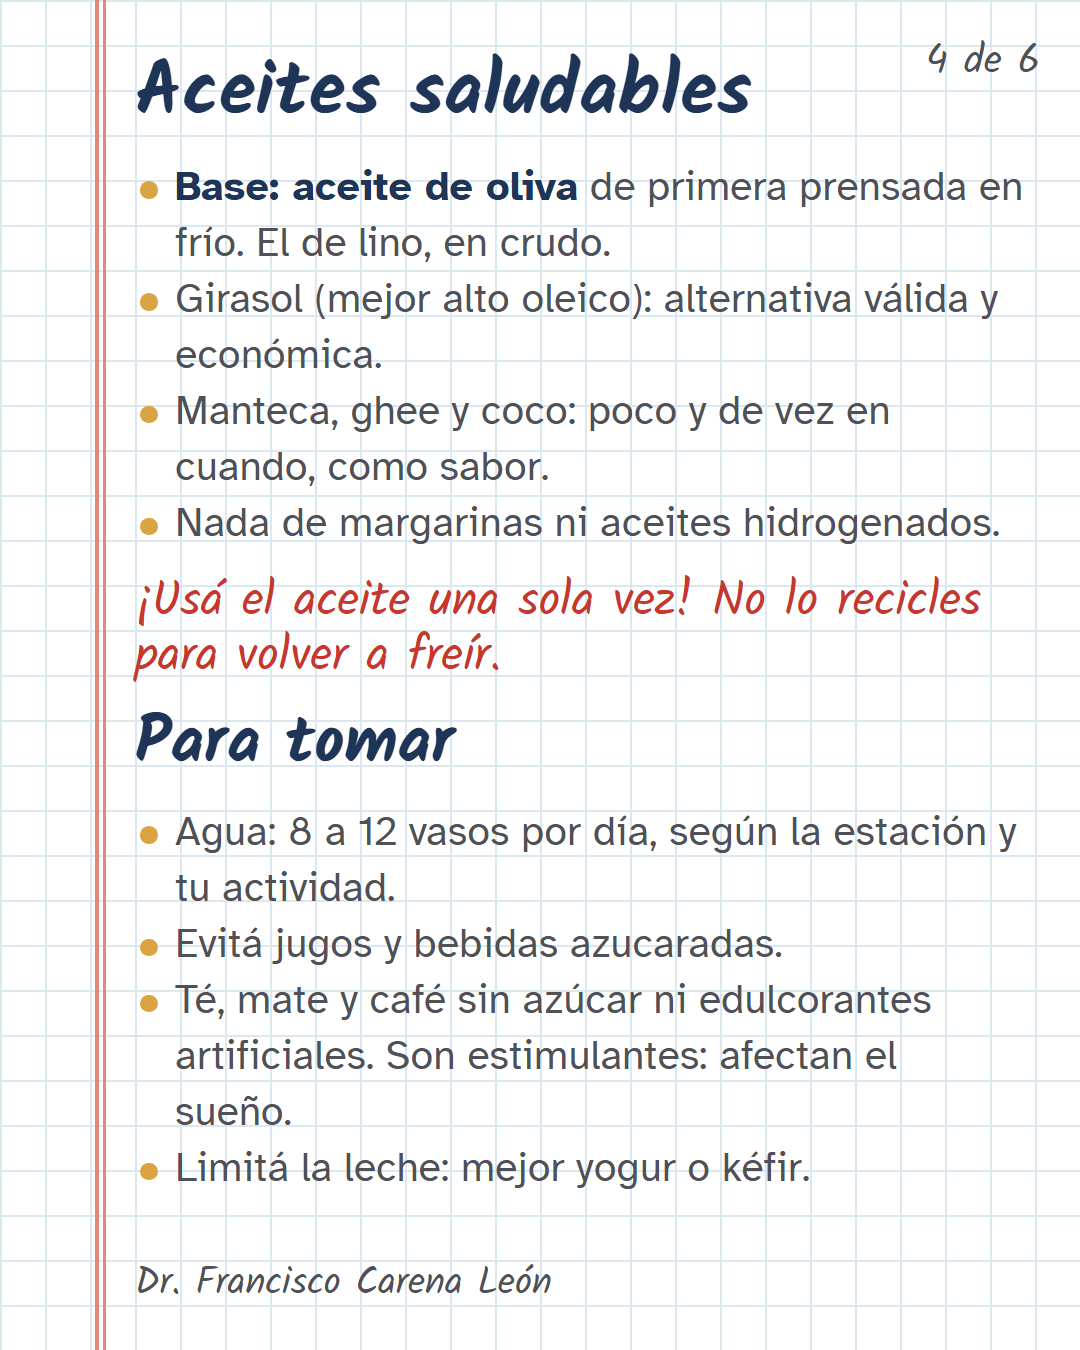
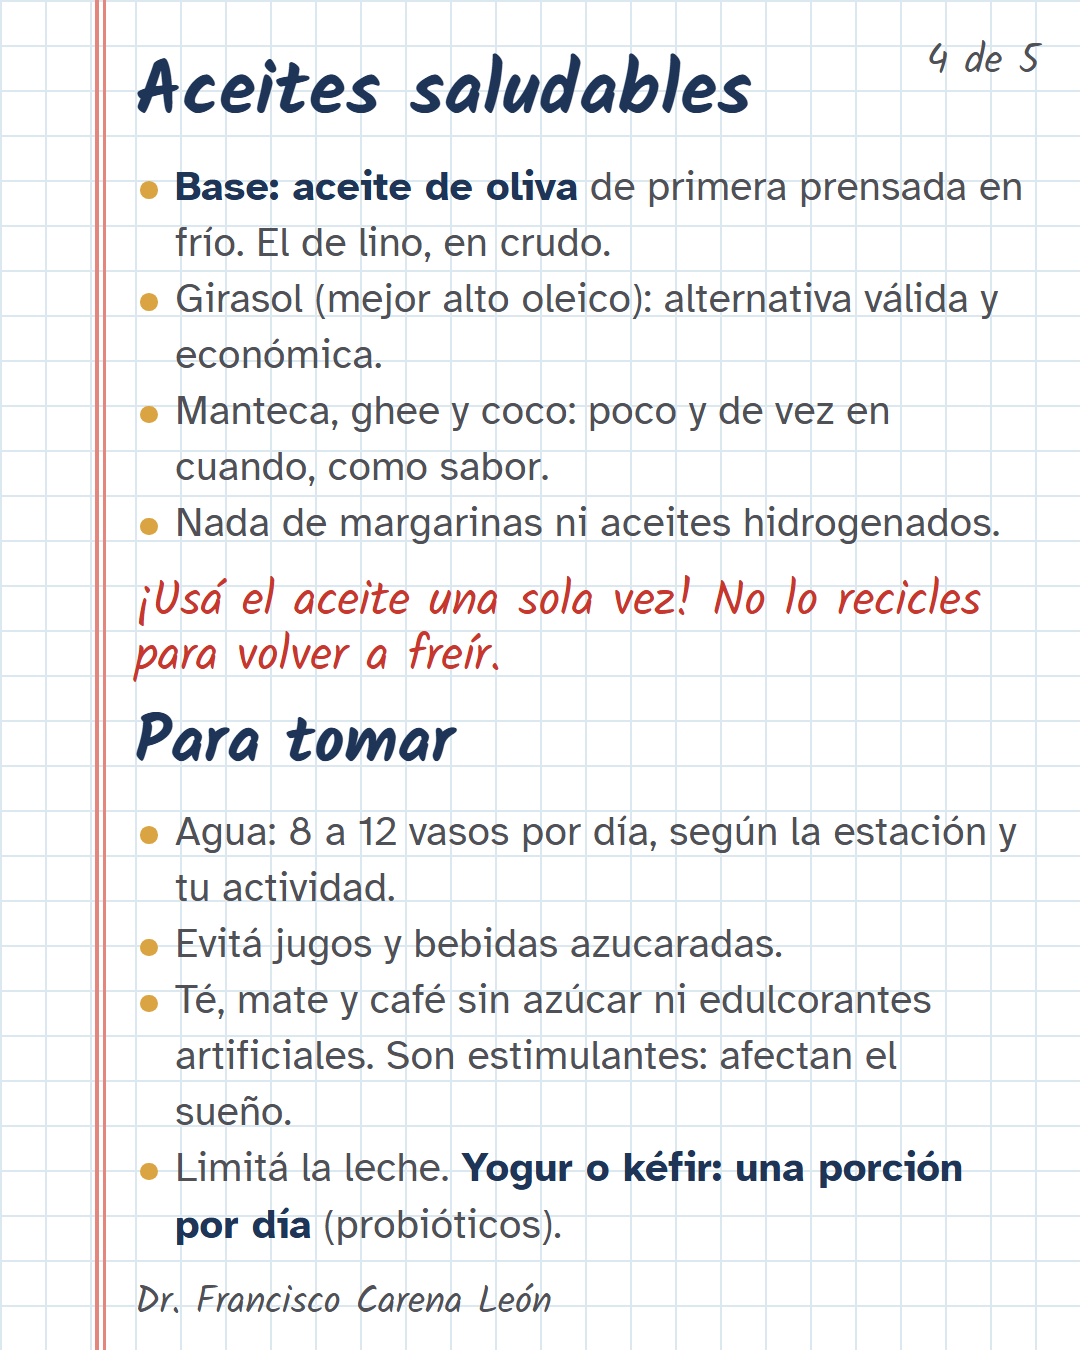
Plato celular solo alimentación (5 imágenes); receta: Terrón de legumbres (tofu birmano)
Claude-Session: https://claude.ai/code/session_011zrZY9jQxrkkKfCXdi1ZVs

diff --git a/03_EN_TRABAJO/kit_consulta_v0/movil/K6_plato_movil_v0.1.html b/03_EN_TRABAJO/kit_consulta_v0/movil/K6_plato_movil_v0.1.html
@@ -29,13 +29,11 @@ ul li b{color:var(--ink)}
 ul li::before{content:"";position:absolute;left:2px;top:9px;width:7px;height:7px;border-radius:50%;background:var(--garb)}
 .tip{font-size:16.5px;line-height:1.34;color:var(--graphite)}
 .tip b{font-family:"Kalam",cursive;font-size:21px;color:var(--red);display:block;line-height:1.05}
-.hab{display:flex;gap:12px;align-items:flex-start}
-.hab svg{flex:none;margin-top:3px}
 </style></head><body>
 
 <!-- 1 -->
 <section class="slide">
-  <span class="num">1 de 6</span>
+  <span class="num">1 de 5</span>
   <h1 style="font-size:31px">Consejos para una alimentación adecuada</h1>
   <p class="red hand" style="font-size:18px;line-height:1.15">Así se arma el plato de todos los días.</p>
   <div style="display:flex;justify-content:center">
@@ -79,7 +77,7 @@ ul li::before{content:"";position:absolute;left:2px;top:9px;width:7px;height:7px
 
 <!-- 2 -->
 <section class="slide">
-  <span class="num">2 de 6</span>
+  <span class="num">2 de 5</span>
   <h2>La mitad del plato</h2>
   <h3><i style="background:#9DB46A"></i>Vegetales</h3>
   <p class="g">¡Cuantos más y más variados, mejor! De hoja verde (espinaca, acelga, rúcula), crucíferas (kale, repollo, coliflor, brócoli), rabanitos, batata, zapallos, pimientos, berenjena, ensaladas.</p>
@@ -91,7 +89,7 @@ ul li::before{content:"";position:absolute;left:2px;top:9px;width:7px;height:7px
 
 <!-- 3 -->
 <section class="slide">
-  <span class="num">3 de 6</span>
+  <span class="num">3 de 5</span>
   <h2>La otra mitad</h2>
   <h3><i style="background:#E9C77A"></i>Granos integrales</h3>
   <p class="g">Arroz yamaní, avena, trigo sarraceno, quinoa, amaranto, mijo, centeno integral. Limitá los refinados: pastas, harina, masitas y pan. <span class="red hand" style="font-size:18px">¡Junto con una legumbre, mejor!</span></p>
@@ -103,7 +101,7 @@ ul li::before{content:"";position:absolute;left:2px;top:9px;width:7px;height:7px
 
 <!-- 4 -->
 <section class="slide">
-  <span class="num">4 de 6</span>
+  <span class="num">4 de 5</span>
   <h2>Aceites saludables</h2>
   <ul>
     <li><b>Base: aceite de oliva</b> de primera prensada en frío. El de lino, en crudo.</li>
@@ -117,14 +115,14 @@ ul li::before{content:"";position:absolute;left:2px;top:9px;width:7px;height:7px
     <li>Agua: 8 a 12 vasos por día, según la estación y tu actividad.</li>
     <li>Evitá jugos y bebidas azucaradas.</li>
     <li>Té, mate y café sin azúcar ni edulcorantes artificiales. Son estimulantes: afectan el sueño.</li>
-    <li>Limitá la leche: mejor yogur o kéfir.</li>
+    <li>Limitá la leche. <b>Yogur o kéfir: una porción por día</b> (probióticos).</li>
   </ul>
   <p class="foot">Dr. Francisco Carena León</p>
 </section>
 
 <!-- 5 -->
 <section class="slide">
-  <span class="num">5 de 6</span>
+  <span class="num">5 de 5</span>
   <h2>Tres trucos</h2>
   <div class="box tip"><b>Legumbres que caen mejor</b>Remojo fermentado de 24 a 36 h (2 cucharadas de kéfir o suero por taza). Tirá el agua y herví con una pizca de bicarbonato.</div>
   <div class="box tip"><b>Una legumbre y un cereal por semana</b>Cocinás una vez, fraccionás en frasquitos y al freezer. Toda la semana, en preparaciones distintas.</div>
@@ -132,17 +130,4 @@ ul li::before{content:"";position:absolute;left:2px;top:9px;width:7px;height:7px
   <p class="foot">Dr. Francisco Carena León</p>
 </section>
 
-<!-- 6 -->
-<section class="slide">
-  <span class="num">6 de 6</span>
-  <h2>Además del plato</h2>
-  <div class="hab"><svg width="34" height="34" viewBox="0 0 22 22" aria-hidden="true"><circle cx="13" cy="3.5" r="2.5" fill="#C8372D"/><path d="M12 7 L9 13 L13 15 L11 21 M9 13 L4 12 M12 8 L17 11 M13 15 L18 17" fill="none" stroke="#C8372D" stroke-width="2" stroke-linecap="round" stroke-linejoin="round"/></svg>
-    <p><b>Movete todos los días:</b> 9000 pasos, o sea lo de siempre más unos 40 min de caminata rápida, baile o trabajo con el cuerpo (huerta, jardín, obra). En la semana, mínimo 150 min.</p></div>
-  <div class="hab"><svg width="34" height="34" viewBox="0 0 22 22" aria-hidden="true"><circle cx="11" cy="4" r="2.6" fill="#1E3557"/><path d="M11 8 V14 M4 17 C 8 13, 14 13, 18 17 M5 11 L11 10 L17 11" fill="none" stroke="#1E3557" stroke-width="2" stroke-linecap="round"/></svg>
-    <p><b>Relajación y atención plena:</b> 10 minutos por día.</p></div>
-  <div class="hab"><svg width="34" height="34" viewBox="0 0 22 22" aria-hidden="true"><rect x="2" y="7" width="18" height="10" rx="5" fill="#C9D3A0" stroke="#1E3557" stroke-width="1.6"/><circle cx="8" cy="11" r="1.2" fill="#1E3557"/><circle cx="14" cy="11" r="1.2" fill="#1E3557"/><path d="M8 14 Q11 16 14 14" fill="none" stroke="#1E3557" stroke-width="1.3" stroke-linecap="round"/></svg>
-    <p><b>Probióticos:</b> una porción por día (yogur, kéfir).</p></div>
-  <p class="red hand" style="font-size:22px;margin-top:4px">¡A comer!</p>
-  <p class="foot">Dr. Francisco Carena León</p>
-</section>
 </body></html>

diff --git a/03_EN_TRABAJO/INDICE_MAESTRO_v0.1.md b/03_EN_TRABAJO/INDICE_MAESTRO_v0.1.md
@@ -40,11 +40,11 @@ Una indicación `IF` con respaldo `E2` o `E3` se usa de forma individualizada. N
 | K3 | Merencenas: la última comida, más temprano | Merencenas | N1 (paciente) + N3 (profesional) | Digestivo; diabetes/prediabetes; obesidad | LISTO PARA PROBAR | IF + E2 (dispepsia, glucemia) + E3 (desayuno tardío) | `kit_consulta_v0/K3_merencenas_v0.2.html` (+ PDF y PNG), `kit_consulta_v0/K3_merencenas_ficha_profesional_v0.1.md` |
 | K4 | Legumbre + cereal: mejor juntas (combinar el mismo día; historia de las semillas, los antinutrientes, el fuego y las bacterias) | A. Conocer | N1 | General | LISTO PARA PROBAR | IF + E2 (complementación de aminoácidos); relato evolutivo = IF | `kit_consulta_v0/K4_mejor_juntas_v0.1.html` (+ PDF y PNG) |
 | K5 | Desayunos y meriendas (fórmula + bebidas + cómo endulzar + toppings + ideas) | B. Preparar + C. Organizar | N1 (2 carillas) | General | LISTO PARA PROBAR | IF (folleto original de Francisco) + decisiones D3-D6 | `kit_consulta_v0/K5_desayunos_v0.1.html` (+ PDF y PNG por carilla) |
-| K6 | Consejos para una alimentación adecuada (el plato) | A + C | N1 | General | LISTO PARA PROBAR | IF (cuadro original de Francisco, adaptado de Harvard) + D1-D6 | `kit_consulta_v0/K6_plato_saludable_v0.1.html` (+ PDF y PNG); versión celular: `kit_consulta_v0/movil/K6_plato_movil_1..6.png` |
+| K6 | Consejos para una alimentación adecuada (el plato) | A + C | N1 | General | LISTO PARA PROBAR | IF (cuadro original de Francisco, adaptado de Harvard) + D1-D6 | `kit_consulta_v0/K6_plato_saludable_v0.1.html` (+ PDF y PNG); versión celular: `kit_consulta_v0/movil/K6_plato_movil_1..5.png` |
 | K7 | Despensa para variar: proteínas listas (tofu, tempeh, seitán, texturizados), pastas de legumbre e integrales, granos para hervir | B. Preparar | N1 (2 carillas) | General | LISTO PARA PROBAR | IF + E2 | `kit_consulta_v0/K7_despensa_para_variar_v0.1.html` (+ PDF y PNG por carilla) |
 | K8 | Semáforo del azúcar (tabla de índice glucémico corregida) | A. Conocer | N1 | Diabetes/prediabetes; obesidad; general | LISTO PARA PROBAR | IF (tabla original) + E2 (valores de IG de las tablas internacionales †, a verificar) | `kit_consulta_v0/K8_semaforo_azucar_v0.1.html` (+ PDF y PNG) |
 | K9 | Huevo de campo (vs. criadero): perfil de grasas y vitaminas, cómo elegirlo, señales de calidad | A. Conocer | N1 | General | LISTO PARA PROBAR | IF + E2 (Karsten 2010, estudio chico) | `kit_consulta_v0/K9_huevo_de_campo_v0.1.html` (+ PDF y PNG) |
-| K10 | Bloque de legumbre (receta de la casa de Francisco): pasta de legumbre fermentada, cocida y cuajada en molde; se corta en bifes, tiritas, hamburguesas | B. Preparar | N1 | General | EN DISEÑO (falta decidir nombre, legumbres y proporciones) | IF; técnica tipo tofu birmano | `conocimiento/FORMULA_BLOQUE_LEGUMBRE_v0.1.md` |
+| K10 | Terrón de legumbres, tofu birmano (receta de la casa de Francisco): pasta de legumbre fermentada, cocida y cuajada en molde; se corta en bifes, tiritas, hamburguesas | B. Preparar | N1 | General | EN DISEÑO (falta decidir legumbres y proporciones) | IF; técnica tipo tofu birmano | `conocimiento/FORMULA_TERRON_LEGUMBRES_v0.1.md` |
 
 ## 2. A. Conocer los alimentos
 

diff --git a/03_EN_TRABAJO/conocimiento/FORMULA_TERRON_LEGUMBRES_v0.1.md b/03_EN_TRABAJO/conocimiento/FORMULA_TERRON_LEGUMBRES_v0.1.md
@@ -1,10 +1,10 @@
-# Bloque de legumbre - fuente única v0.1 (BORRADOR)
+# Terrón de legumbres (tofu birmano) - fuente única v0.1 (BORRADOR)
 
 - Fecha: 2026-10-30
 - Programa: general (P0). Familia: B. Preparar (preparación universal).
 - Origen: receta de la casa de Francisco (la hace su señora, con lentejas). Clasificación: IF.
 - Regla: la hoja del kit, el bot y la app toman la fórmula de acá.
-- Nombre provisorio: "bloque de legumbre". Lo elige Francisco (ver abajo).
+- Nombre: "Terrón de legumbres (tofu birmano)" (decidido por Francisco, 2026-10-30).
 
 ## Receta original (IF, como la contó Francisco)
 
@@ -39,9 +39,9 @@ Lo que la vuelve atractiva: sin gluten (sirve a celíacos si los condimentos no 
 
 | # | Punto | Objeción y respaldo | Propuesta |
 |---|---|---|---|
-| B1 | Nombre | "Seitán" es por definición gluten de trigo; esta preparación no tiene gluten. Llamarla seitán confunde, sobre todo a celíacos. | "Bloque de legumbre" (neutral y descriptivo). Otras: "terrina de legumbre", "tofu de lenteja/garbanzo" (nombre que ya usan los recetarios). |
+| B1 | Nombre | "Seitán" es por definición gluten de trigo; esta preparación no tiene gluten. Llamarla seitán confunde, sobre todo a celíacos. | DECIDIDO: "Terrón de legumbres (tofu birmano)". |
 | B2 | "Cualquier legumbre" | Los porotos crudos (sobre todo los rojos) tienen fitohemaglutinina, que se destruye con hervor sostenido: la FDA pide al menos 10 min a 100 °C y recomienda 30 min para asegurar (K-State, citando el Bad Bug Book de la FDA). Una pasta espesa revuelta en sartén puede no llegar pareja a 100 °C ese tiempo. Con lentejas y garbanzos el riesgo es mucho menor. | En la hoja: lentejas, arvejas partidas y garbanzos. Porotos solo si Francisco lo aprueba, con cocción larga a hervor. |
 | B3 | Soja | Cuaja por el almidón; la soja casi no tiene almidón y no cuajaría así (E3, a probar). | Dejarla fuera. |
 | B4 | Proporciones y tiempos | "Un poco de agua" no se puede enseñar. | Confirmar con la receta de la casa: cuánta agua por taza y cuánto tiempo al fuego. |
 
-Después de B1-B4: hoja del kit (K10, estilo cuaderno) + versión celular.
+Después de B2-B4: hoja del kit (K10, estilo cuaderno) + versión celular.

diff --git a/00_CONTEXTO/REGISTRO_DE_TRABAJO.md b/00_CONTEXTO/REGISTRO_DE_TRABAJO.md
@@ -168,6 +168,8 @@ Para que cualquier agente continúe sin empezar de cero. Leer después de `00_LE
 - Pendiente de hablar con Francisco: rótulo "sin restricción" del verde del semáforo.
 - Semáforo: verde = "elegilos seguido" (Francisco). Plato: "trabajo con el cuerpo (huerta, jardín, obra)".
 - Versión celular de K2: 5 imágenes 1080x1350 para WhatsApp (`kit_consulta_v0/movil/`), un bloque por imagen, letra grande. Es un resumen: la tabla completa de tiempos y algunos detalles quedan en la versión impresa. Pendiente: K6 en el mismo formato si Francisco aprueba.
-- Versión celular de K6: 6 imágenes 1080x1350 (`kit_consulta_v0/movil/K6_plato_movil_1..6.png`). Resumen: quedan solo en la impresa la yerba orgánica estacionada, palta y frutos secos como grasas y la lista de legumbres de ejemplo.
-- Receta nueva de la casa de Francisco: `conocimiento/FORMULA_BLOQUE_LEGUMBRE_v0.1.md` (original IF + versión nuestra a probar). Pendiente de Francisco: nombre (no "seitán": no tiene gluten), porotos (fitohemaglutinina), soja, proporciones. Después, hoja K10.
+- Versión celular de K6: 5 imágenes 1080x1350 (`kit_consulta_v0/movil/K6_plato_movil_1..5.png`), solo alimentación (movimiento y relajación quedan en la impresa, que es la infografía de todo en una; probióticos pasan a "Para tomar"). Resumen: quedan solo en la impresa la yerba orgánica estacionada, palta y frutos secos como grasas y la lista de legumbres de ejemplo.
+- Receta nueva de la casa de Francisco: `conocimiento/FORMULA_TERRON_LEGUMBRES_v0.1.md` (original IF + versión nuestra a probar). Pendiente de Francisco: nombre (no "seitán": no tiene gluten), porotos (fitohemaglutinina), soja, proporciones. Después, hoja K10.
 - Repo en GitHub figura PÚBLICO (CLAUDE.md dice privado). Historial revisado: sin .env, sqlite ni carpeta del bot. Consultar a Francisco.
+- Nombre de la receta: "Terrón de legumbres (tofu birmano)" (Francisco). Archivo: `FORMULA_TERRON_LEGUMBRES_v0.1.md`.
+- Foco: terminar nutrición y alimentación antes de abrir movimiento (Francisco).

diff --git a/tasks/ideas.md b/tasks/ideas.md
@@ -5,7 +5,7 @@ Se trabajan de a una, en este orden (Francisco puede reordenar). Al terminar una
 | # | Idea | Dónde va | Estado |
 |---|---|---|---|
 | 1 | Plato saludable rehecho con lo mejor del cuadro original | K6 | HECHO 2026-10-30 (falta su revisión) |
-| 3 | Bloque de legumbre (receta de su señora): legumbre fermentada, procesada, cocida revolviendo y cuajada en molde | `conocimiento/FORMULA_BLOQUE_LEGUMBRE_v0.1.md` -> K10 | FÓRMULA HECHA 2026-10-30; hoja espera nombre, legumbres y proporciones |
+| 3 | Terrón de legumbres, tofu birmano (receta de su señora): legumbre fermentada, procesada, cocida revolviendo y cuajada en molde | `conocimiento/FORMULA_TERRON_LEGUMBRES_v0.1.md` -> K10 | FÓRMULA HECHA 2026-10-30; hoja espera legumbres y proporciones |
 | 2 | Despensa para variar: proteínas listas (con seitán), pastas de legumbre e integrales, granos para hervir; soja orgánica y fitoestrógenos | K7 | HECHO 2026-10-30 (falta su revisión) |
 
 ## Cajón (ideas sueltas, sin decidir dónde van)
